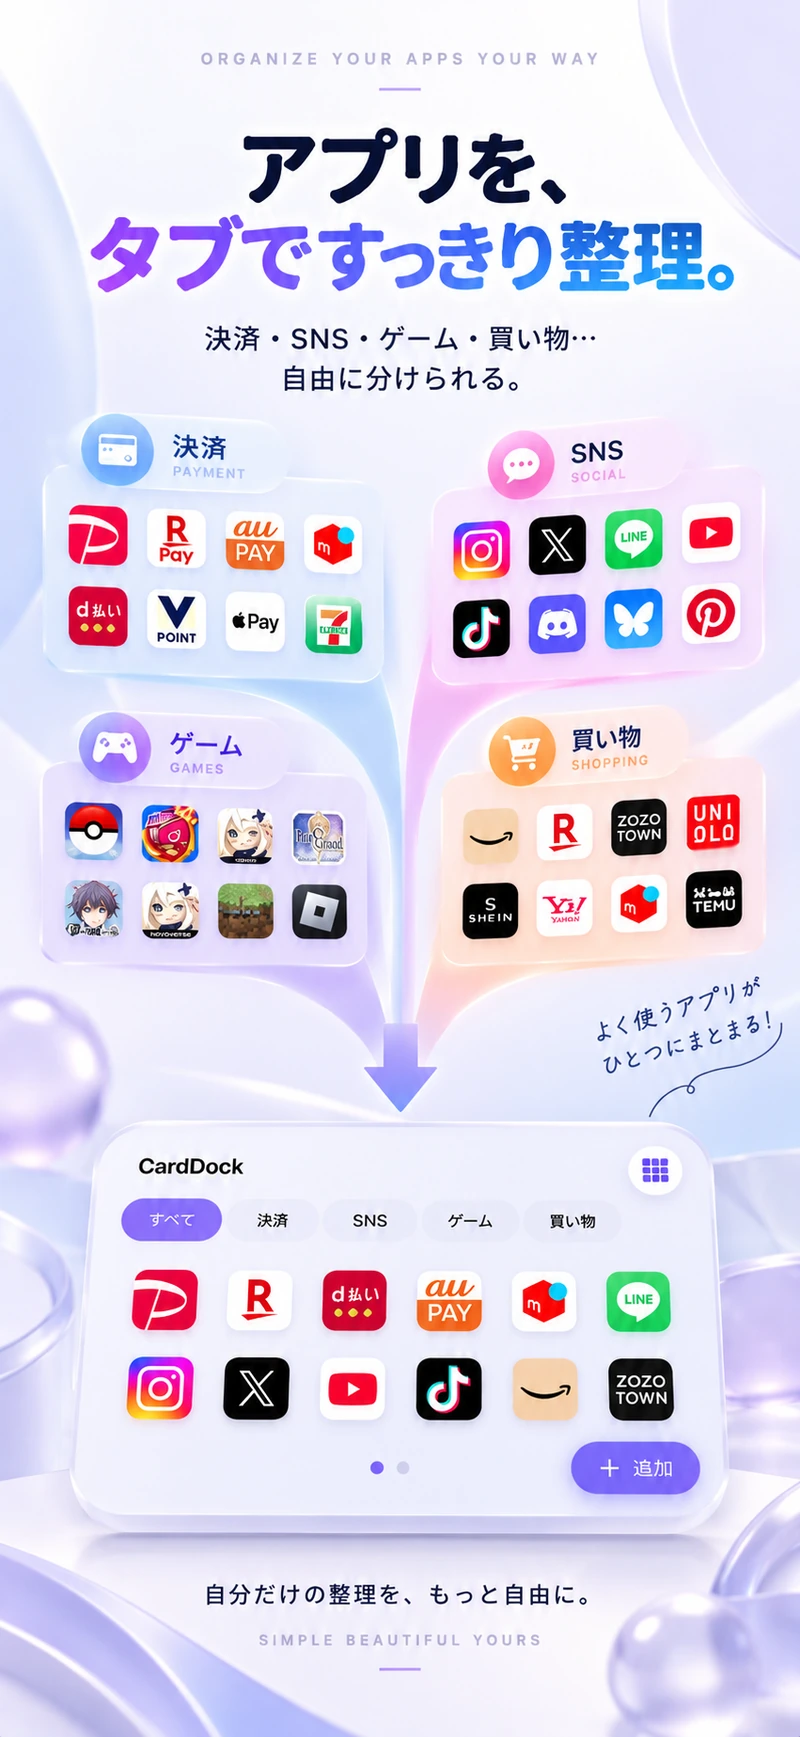
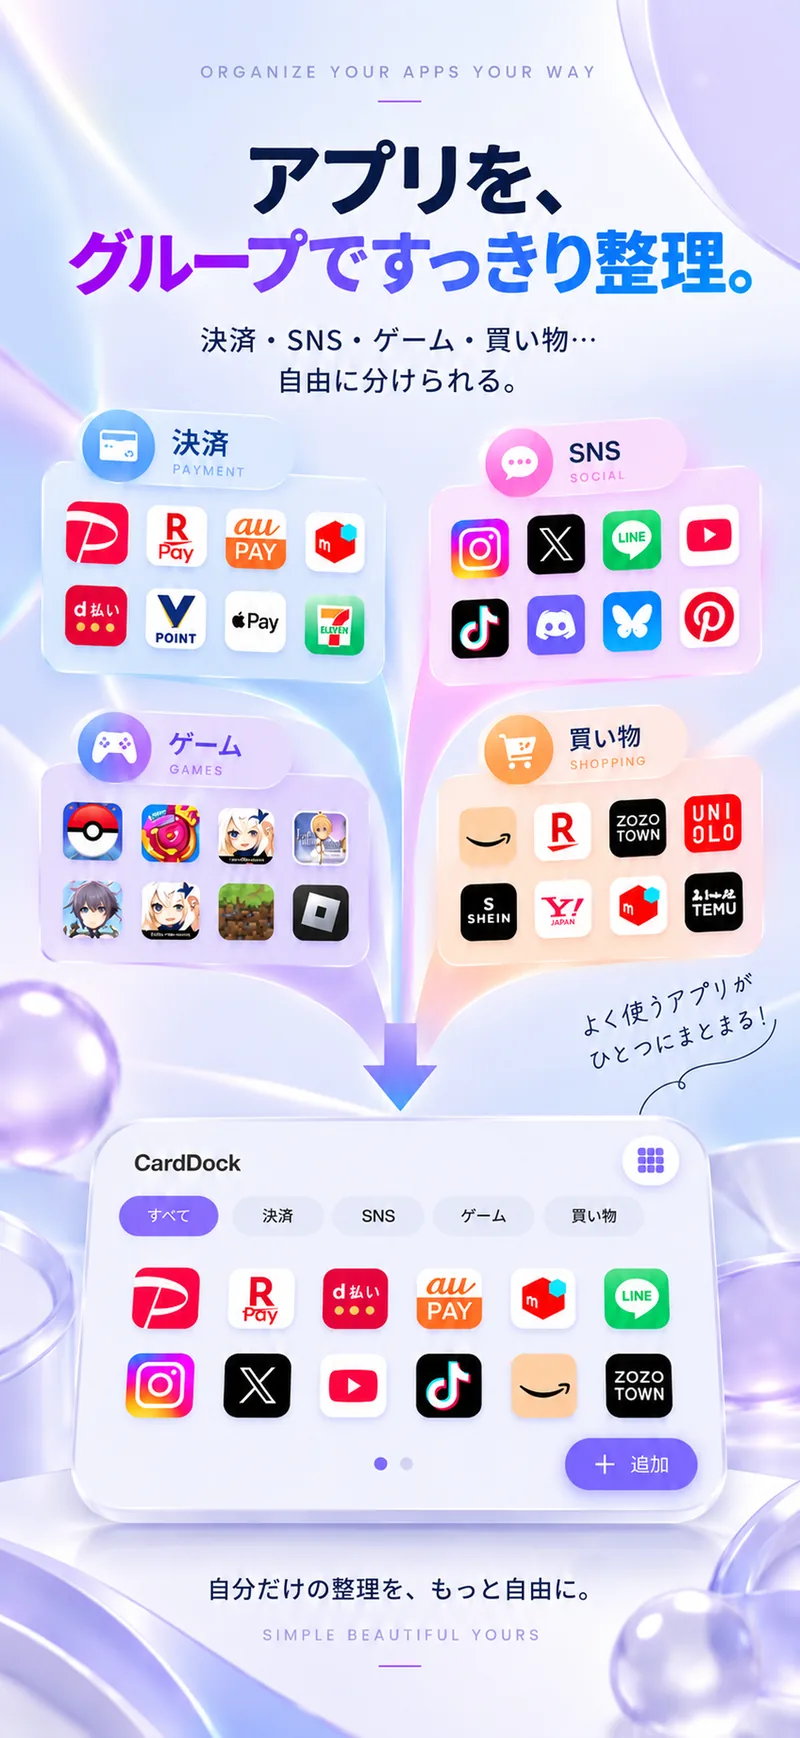
CardDock のスクリーンショットを App Store 提出版に差し替え、画面の言葉を「グループ」に揃える
- assets/carddock-store-01.webp / -02.webp を、審査に提出した 1 枚目・3 枚目から作り直した
  （900x1955 / 800x1738。208KB → 141KB、142KB → 105KB）
- 本文と alt の「タブ」を「グループ」へ（アプリ側は 2026-09-29 に言葉を変えてある）
- 2 枚目の height を実寸 1738 に修正

diff --git a/carddock/index.html b/carddock/index.html
@@ -54,8 +54,8 @@
 </div></section>
 
 <section class="section showcase" aria-labelledby="showcase-title">
-<div><p class="eyebrow">ORGANIZE YOUR WAY</p><h2 id="showcase-title">アプリを、<br>使いやすい並びに。</h2><p>決済、SNS、ゲーム、買い物。自分の使い方に合わせてタブで整理できます。ウィジェットのレイアウトや背景もカスタマイズできます。</p></div>
-<figure><img src="/assets/carddock-store-02.webp" width="800" height="1737" alt="CardDock の App Store 掲載予定画像。アプリを決済、SNS、ゲーム、買い物などのタブで整理する様子。" loading="lazy"><figcaption>App Store 掲載予定画像 · 開発中</figcaption></figure>
+<div><p class="eyebrow">ORGANIZE YOUR WAY</p><h2 id="showcase-title">アプリを、<br>使いやすい並びに。</h2><p>決済、SNS、ゲーム、買い物。自分の使い方に合わせてグループで整理できます。ウィジェットのレイアウトや背景もカスタマイズできます。</p></div>
+<figure><img src="/assets/carddock-store-02.webp" width="800" height="1738" alt="CardDock の App Store 掲載予定画像。アプリを決済、SNS、ゲーム、買い物などのグループで整理する様子。" loading="lazy"><figcaption>App Store 掲載予定画像 · 開発中</figcaption></figure>
 </section>
 
 <section class="section" id="features" aria-labelledby="features-title">
